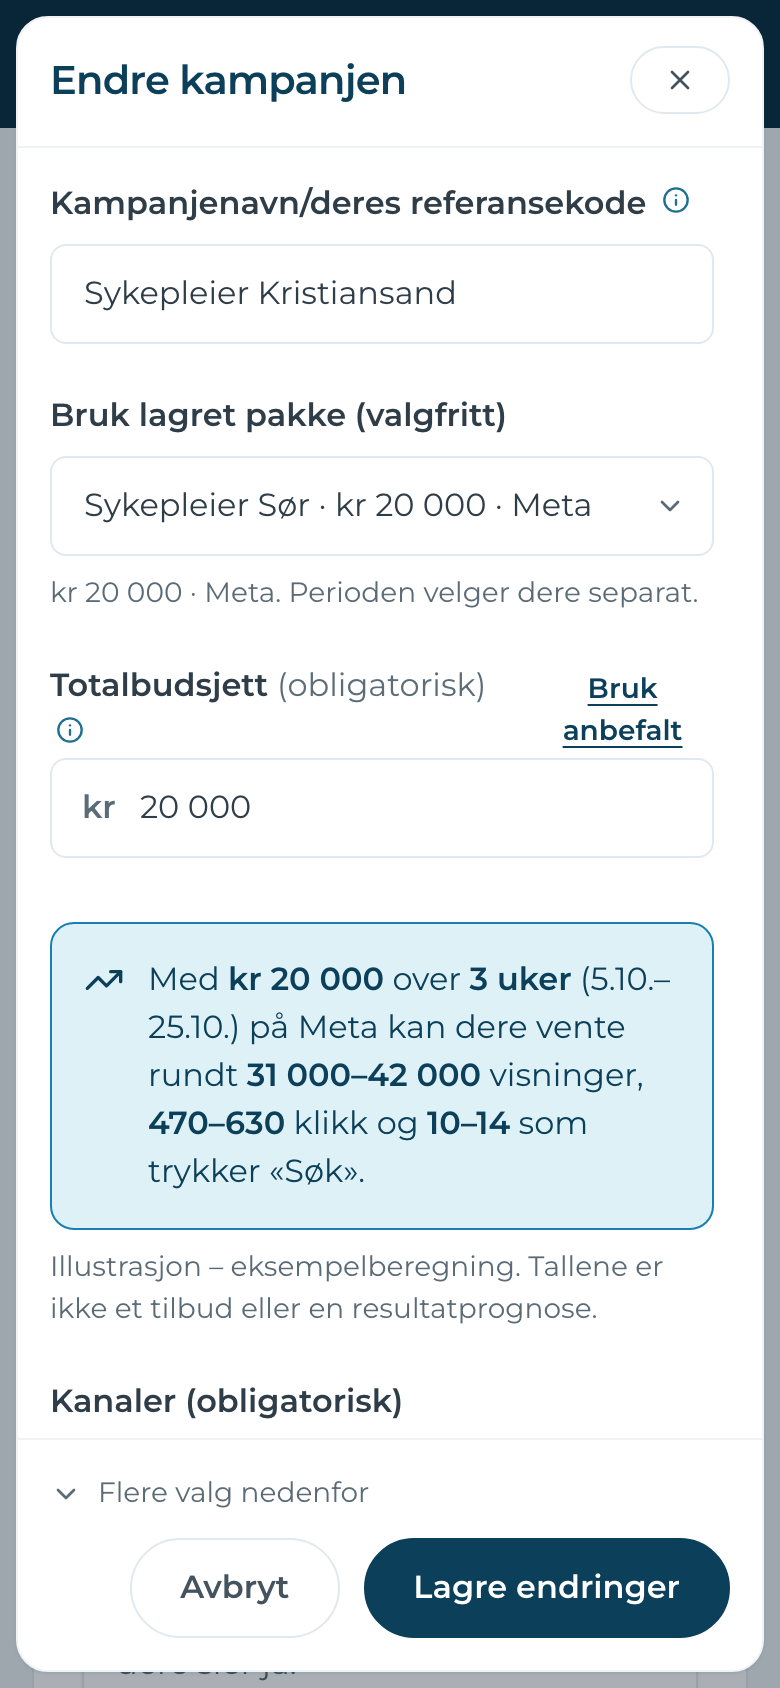
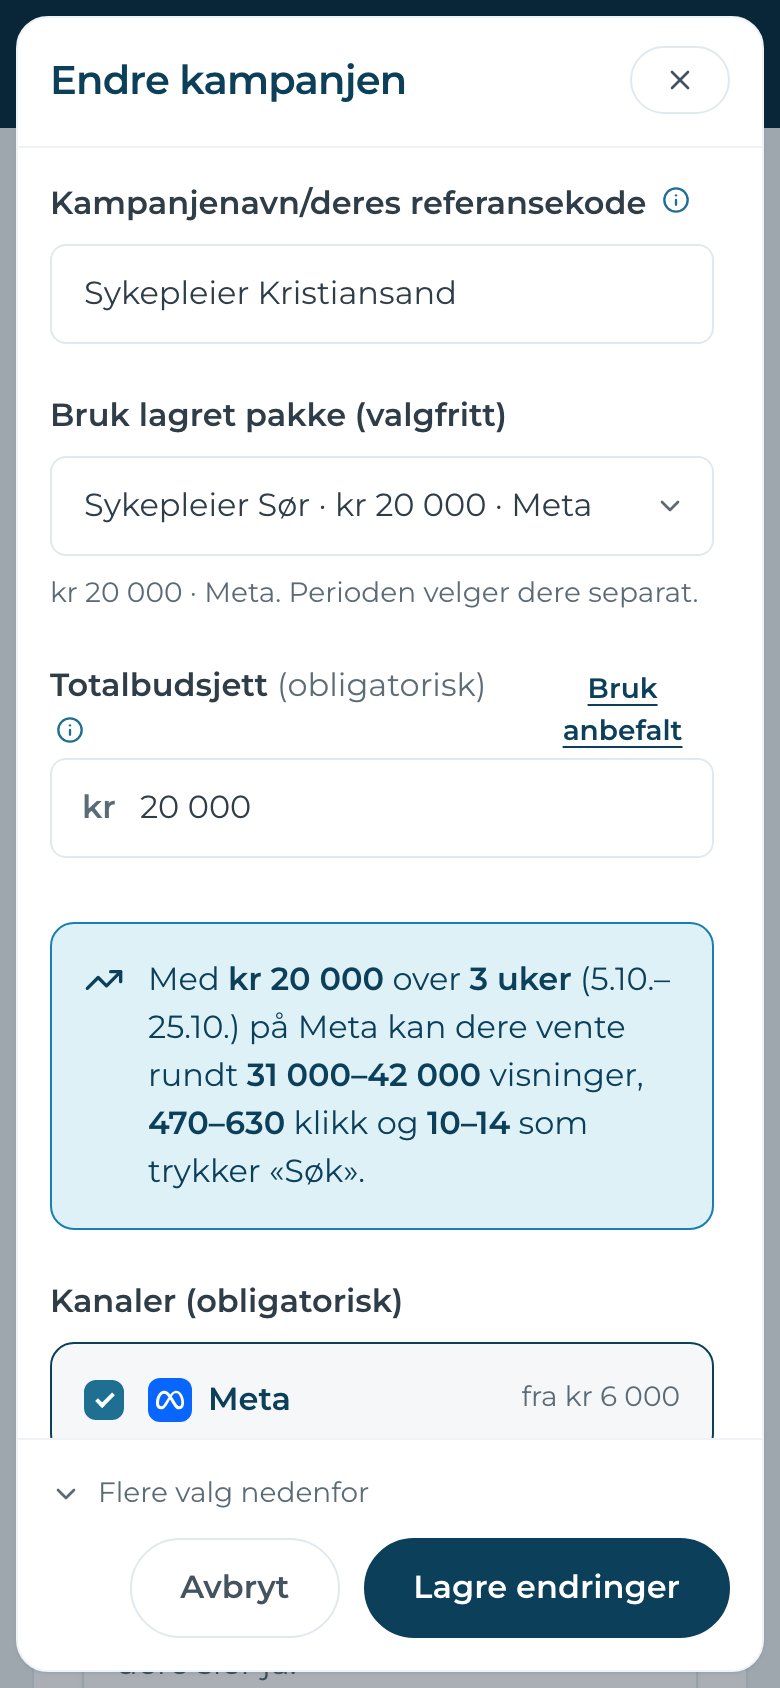
Remove the illustration hint under the budget in the Kampanjen dialog

Changed region(s): [[0.0615, 0.7393, 0.8, 0.8626], [0.7692, 0.8009, 0.8615, 0.8318]]

diff --git a/portal/ny-kampanje.html b/portal/ny-kampanje.html
@@ -2356,11 +2356,6 @@
       if (kampanje && felt[0] === 'navn') v2Pakkevelger(rot);
     });
     if (kampanje) v2LagrePakkeFelt(rot);
-    if (seksjon.id === 'kampanje') {
-      var estimatHint = document.createElement('p'); estimatHint.className = 'form-hint';
-      estimatHint.textContent = 'Illustrasjon – eksempelberegning. Tallene er ikke et tilbud eller en resultatprognose.';
-      rot.querySelector('[data-v2-dialog-felt="budsjett"]').appendChild(estimatHint);
-    }
     $('v2-dialog').classList.toggle('v2-dialog--studio', seksjon.id === 'materiell');
     $('v2-dialog').classList.toggle('v2-dialog--kampanje', kampanje);
     if (seksjon.id === 'materiell') { v2flytt('bibliotek', $('v2-dialog-form')); v2StudioValg(); visVedlegg(tilstand.pdf); }
